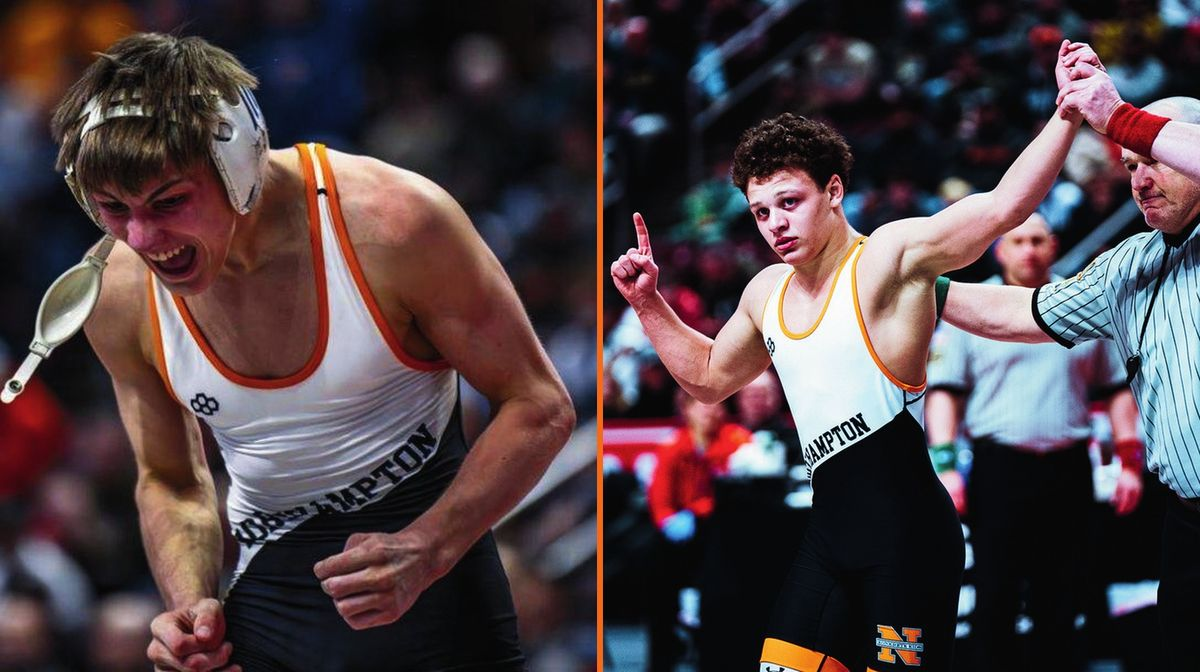
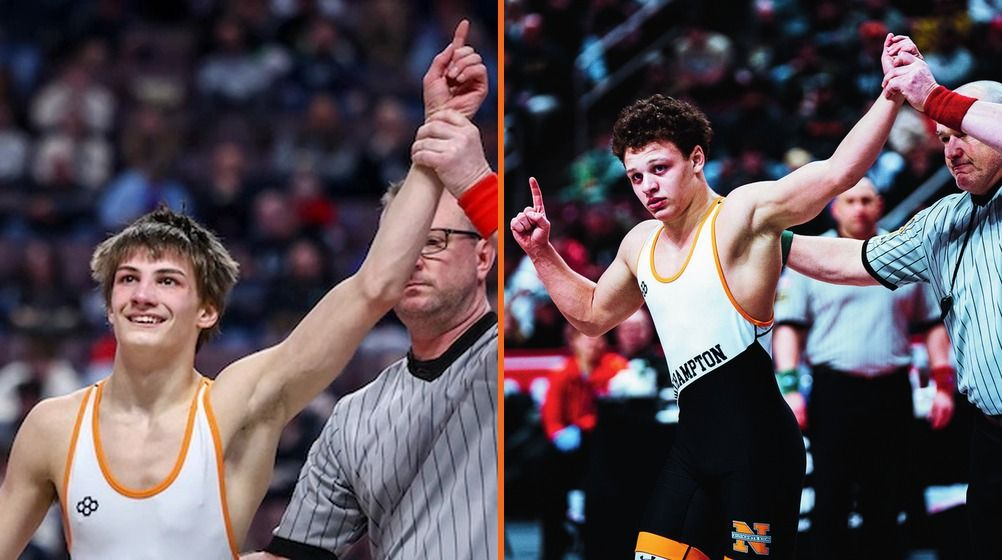
New Wenrich photo in the state-titles news image; embed Sean Finkbeiner's 1984 state final video
Claude-Session: https://claude.ai/code/session_011unT8m44MJviwZ1PMt1Tu4

diff --git a/news/index.html b/news/index.html
@@ -34,7 +34,7 @@
 
 <header class="page-head concrete"><div class="wrap"><h1>News</h1><p class="lede">The latest from the varsity, junior high, and youth programs.</p></div></header>
 <section class="band">
-  <div class="wrap"><h2 class="visually-hidden">All news</h2><div class="news-grid all"><article class="news-card"><a href="../news/new-website/"><picture><source type="image/webp" srcset="../assets/img/photos/hero-circle-640.webp 640w, ../assets/img/photos/hero-circle-1200.webp 1200w, ../assets/img/photos/hero-circle-1800.webp 1800w, ../assets/img/photos/hero-circle-2000.webp 2000w" sizes="(min-width: 900px) 33vw, 100vw"><img src="../assets/img/photos/hero-circle.jpg" width="1200" height="857" alt="Northampton wrestlers lie in a circle on the orange home mat with their fists together before a match" style="object-position:50% 100%" loading="lazy" decoding="async"></picture><div class="nc-body"><time datetime="2026-10-06">October 6, 2026</time><h3>Northampton Wrestling launches its new home online</h3><p>Results, rosters, the Hall of Champions, and every state champion since 1955, all in one place.</p></div></a></article><article class="news-card"><a href="../news/2026-banquet/"><picture><source type="image/webp" srcset="../assets/img/photos/senior-night-640.webp 640w, ../assets/img/photos/senior-night-1200.webp 1200w, ../assets/img/photos/senior-night-1800.webp 1800w" sizes="(min-width: 900px) 33vw, 100vw"><img src="../assets/img/photos/senior-night.jpg" width="1200" height="900" alt="Northampton seniors and their families on the orange mat for Senior Night" loading="lazy" decoding="async"></picture><div class="nc-body"><time datetime="2026-04-02">April 2, 2026</time><h3>Banquet honors the 2025–26 Konkrete Kids</h3><p>Wenrich and Ballard named Outstanding Wrestlers; five seniors receive Charlie Lerch Memorial Scholarships.</p></div></a></article><article class="news-card"><a href="../news/two-state-champions/"><picture><source type="image/webp" srcset="../assets/img/photos/two-champs-2026-480.webp 480w, ../assets/img/photos/two-champs-2026-900.webp 900w, ../assets/img/photos/two-champs-2026-1600.webp 1600w" sizes="(min-width: 900px) 33vw, 100vw"><img src="../assets/img/photos/two-champs-2026.jpg" width="1200" height="672" alt="2026 state champions side by side: Brayden Wenrich yells after a win, and Gabe Ballard points skyward as the referee raises his hand" loading="lazy" decoding="async"></picture><div class="nc-body"><time datetime="2026-03-07">March 7, 2026</time><h3>Wenrich and Ballard win state titles as Northampton finishes 3rd in the state</h3><p>Two PIAA champions in the same year for the first time since 2004.</p></div></a></article></div></div>
+  <div class="wrap"><h2 class="visually-hidden">All news</h2><div class="news-grid all"><article class="news-card"><a href="../news/new-website/"><picture><source type="image/webp" srcset="../assets/img/photos/hero-circle-640.webp 640w, ../assets/img/photos/hero-circle-1200.webp 1200w, ../assets/img/photos/hero-circle-1800.webp 1800w, ../assets/img/photos/hero-circle-2000.webp 2000w" sizes="(min-width: 900px) 33vw, 100vw"><img src="../assets/img/photos/hero-circle.jpg" width="1200" height="857" alt="Northampton wrestlers lie in a circle on the orange home mat with their fists together before a match" style="object-position:50% 100%" loading="lazy" decoding="async"></picture><div class="nc-body"><time datetime="2026-10-06">October 6, 2026</time><h3>Northampton Wrestling launches its new home online</h3><p>Results, rosters, the Hall of Champions, and every state champion since 1955, all in one place.</p></div></a></article><article class="news-card"><a href="../news/2026-banquet/"><picture><source type="image/webp" srcset="../assets/img/photos/senior-night-640.webp 640w, ../assets/img/photos/senior-night-1200.webp 1200w, ../assets/img/photos/senior-night-1800.webp 1800w" sizes="(min-width: 900px) 33vw, 100vw"><img src="../assets/img/photos/senior-night.jpg" width="1200" height="900" alt="Northampton seniors and their families on the orange mat for Senior Night" loading="lazy" decoding="async"></picture><div class="nc-body"><time datetime="2026-04-02">April 2, 2026</time><h3>Banquet honors the 2025–26 Konkrete Kids</h3><p>Wenrich and Ballard named Outstanding Wrestlers; five seniors receive Charlie Lerch Memorial Scholarships.</p></div></a></article><article class="news-card"><a href="../news/two-state-champions/"><picture><source type="image/webp" srcset="../assets/img/photos/two-champs-2026-480.webp 480w, ../assets/img/photos/two-champs-2026-1002.webp 1002w" sizes="(min-width: 900px) 33vw, 100vw"><img src="../assets/img/photos/two-champs-2026.jpg" width="1002" height="560" alt="2026 state champions side by side: Brayden Wenrich and Gabe Ballard each have a hand raised by the referee" loading="lazy" decoding="async"></picture><div class="nc-body"><time datetime="2026-03-07">March 7, 2026</time><h3>Wenrich and Ballard win state titles as Northampton finishes 3rd in the state</h3><p>Two PIAA champions in the same year for the first time since 2004.</p></div></a></article></div></div>
 </section>
 
 </main>

diff --git a/index.html b/index.html
@@ -53,7 +53,7 @@
 <section class="band" aria-labelledby="news-title">
   <div class="wrap">
     <div class="sec-row"><h2 id="news-title">Latest from Northampton</h2><a class="text-link" href="news/">All news</a></div>
-    <div class="news-grid"><article class="news-card big"><a href="news/new-website/"><picture><source type="image/webp" srcset="assets/img/photos/hero-circle-640.webp 640w, assets/img/photos/hero-circle-1200.webp 1200w, assets/img/photos/hero-circle-1800.webp 1800w, assets/img/photos/hero-circle-2000.webp 2000w" sizes="(min-width: 900px) 33vw, 100vw"><img src="assets/img/photos/hero-circle.jpg" width="1200" height="857" alt="Northampton wrestlers lie in a circle on the orange home mat with their fists together before a match" style="object-position:50% 100%" loading="lazy" decoding="async"></picture><div class="nc-body"><time datetime="2026-10-06">October 6, 2026</time><h3>Northampton Wrestling launches its new home online</h3><p>Results, rosters, the Hall of Champions, and every state champion since 1955, all in one place.</p></div></a></article><article class="news-card"><a href="news/2026-banquet/"><picture><source type="image/webp" srcset="assets/img/photos/senior-night-640.webp 640w, assets/img/photos/senior-night-1200.webp 1200w, assets/img/photos/senior-night-1800.webp 1800w" sizes="(min-width: 900px) 33vw, 100vw"><img src="assets/img/photos/senior-night.jpg" width="1200" height="900" alt="Northampton seniors and their families on the orange mat for Senior Night" loading="lazy" decoding="async"></picture><div class="nc-body"><time datetime="2026-04-02">April 2, 2026</time><h3>Banquet honors the 2025–26 Konkrete Kids</h3><p>Wenrich and Ballard named Outstanding Wrestlers; five seniors receive Charlie Lerch Memorial Scholarships.</p></div></a></article><article class="news-card"><a href="news/two-state-champions/"><picture><source type="image/webp" srcset="assets/img/photos/two-champs-2026-480.webp 480w, assets/img/photos/two-champs-2026-900.webp 900w, assets/img/photos/two-champs-2026-1600.webp 1600w" sizes="(min-width: 900px) 33vw, 100vw"><img src="assets/img/photos/two-champs-2026.jpg" width="1200" height="672" alt="2026 state champions side by side: Brayden Wenrich yells after a win, and Gabe Ballard points skyward as the referee raises his hand" loading="lazy" decoding="async"></picture><div class="nc-body"><time datetime="2026-03-07">March 7, 2026</time><h3>Wenrich and Ballard win state titles as Northampton finishes 3rd in the state</h3><p>Two PIAA champions in the same year for the first time since 2004.</p></div></a></article></div>
+    <div class="news-grid"><article class="news-card big"><a href="news/new-website/"><picture><source type="image/webp" srcset="assets/img/photos/hero-circle-640.webp 640w, assets/img/photos/hero-circle-1200.webp 1200w, assets/img/photos/hero-circle-1800.webp 1800w, assets/img/photos/hero-circle-2000.webp 2000w" sizes="(min-width: 900px) 33vw, 100vw"><img src="assets/img/photos/hero-circle.jpg" width="1200" height="857" alt="Northampton wrestlers lie in a circle on the orange home mat with their fists together before a match" style="object-position:50% 100%" loading="lazy" decoding="async"></picture><div class="nc-body"><time datetime="2026-10-06">October 6, 2026</time><h3>Northampton Wrestling launches its new home online</h3><p>Results, rosters, the Hall of Champions, and every state champion since 1955, all in one place.</p></div></a></article><article class="news-card"><a href="news/2026-banquet/"><picture><source type="image/webp" srcset="assets/img/photos/senior-night-640.webp 640w, assets/img/photos/senior-night-1200.webp 1200w, assets/img/photos/senior-night-1800.webp 1800w" sizes="(min-width: 900px) 33vw, 100vw"><img src="assets/img/photos/senior-night.jpg" width="1200" height="900" alt="Northampton seniors and their families on the orange mat for Senior Night" loading="lazy" decoding="async"></picture><div class="nc-body"><time datetime="2026-04-02">April 2, 2026</time><h3>Banquet honors the 2025–26 Konkrete Kids</h3><p>Wenrich and Ballard named Outstanding Wrestlers; five seniors receive Charlie Lerch Memorial Scholarships.</p></div></a></article><article class="news-card"><a href="news/two-state-champions/"><picture><source type="image/webp" srcset="assets/img/photos/two-champs-2026-480.webp 480w, assets/img/photos/two-champs-2026-1002.webp 1002w" sizes="(min-width: 900px) 33vw, 100vw"><img src="assets/img/photos/two-champs-2026.jpg" width="1002" height="560" alt="2026 state champions side by side: Brayden Wenrich and Gabe Ballard each have a hand raised by the referee" loading="lazy" decoding="async"></picture><div class="nc-body"><time datetime="2026-03-07">March 7, 2026</time><h3>Wenrich and Ballard win state titles as Northampton finishes 3rd in the state</h3><p>Two PIAA champions in the same year for the first time since 2004.</p></div></a></article></div>
   </div>
 </section>
 

diff --git a/news/2026-banquet/index.html b/news/2026-banquet/index.html
@@ -37,7 +37,7 @@
     <div class="wrap"><p class="kicker"><a href="../../news/">News</a> · <time datetime="2026-04-02">April 2, 2026</time></p><h1 class="article-title">Banquet honors the 2025–26 Konkrete Kids</h1></div></header>
   <div class="band"><div class="wrap prose article-body"><p>The Northampton Area Wrestling Club honored the 2025–26 team at its annual awards banquet on April 2, 2026.</p><p>State champions Brayden Wenrich and Gabe Ballard shared the Outstanding Wrestler award. Ben Schoeneberger was named Rookie of the Year, Zach Hartzell received the Future Star award, and Carter Chlebove was named Most Improved and Most Courageous.</p><p>Chase Grabfelder, Daniel Herritt, Brandon McEntire, Matthew Sommer, and Trey Wagner received Charlie Lerch Memorial Scholarships. Wagner, who finished his career with 140 wins, earned the 40 Point Club&#x27;s fourth-year scholarship.</p></div></div>
 </article>
-<section class="band concrete"><div class="wrap"><h2>More news</h2><div class="news-grid two"><article class="news-card"><a href="../../news/new-website/"><picture><source type="image/webp" srcset="../../assets/img/photos/hero-circle-640.webp 640w, ../../assets/img/photos/hero-circle-1200.webp 1200w, ../../assets/img/photos/hero-circle-1800.webp 1800w, ../../assets/img/photos/hero-circle-2000.webp 2000w" sizes="(min-width: 900px) 33vw, 100vw"><img src="../../assets/img/photos/hero-circle.jpg" width="1200" height="857" alt="Northampton wrestlers lie in a circle on the orange home mat with their fists together before a match" style="object-position:50% 100%" loading="lazy" decoding="async"></picture><div class="nc-body"><time datetime="2026-10-06">October 6, 2026</time><h3>Northampton Wrestling launches its new home online</h3><p>Results, rosters, the Hall of Champions, and every state champion since 1955, all in one place.</p></div></a></article><article class="news-card"><a href="../../news/two-state-champions/"><picture><source type="image/webp" srcset="../../assets/img/photos/two-champs-2026-480.webp 480w, ../../assets/img/photos/two-champs-2026-900.webp 900w, ../../assets/img/photos/two-champs-2026-1600.webp 1600w" sizes="(min-width: 900px) 33vw, 100vw"><img src="../../assets/img/photos/two-champs-2026.jpg" width="1200" height="672" alt="2026 state champions side by side: Brayden Wenrich yells after a win, and Gabe Ballard points skyward as the referee raises his hand" loading="lazy" decoding="async"></picture><div class="nc-body"><time datetime="2026-03-07">March 7, 2026</time><h3>Wenrich and Ballard win state titles as Northampton finishes 3rd in the state</h3><p>Two PIAA champions in the same year for the first time since 2004.</p></div></a></article></div></div></section>
+<section class="band concrete"><div class="wrap"><h2>More news</h2><div class="news-grid two"><article class="news-card"><a href="../../news/new-website/"><picture><source type="image/webp" srcset="../../assets/img/photos/hero-circle-640.webp 640w, ../../assets/img/photos/hero-circle-1200.webp 1200w, ../../assets/img/photos/hero-circle-1800.webp 1800w, ../../assets/img/photos/hero-circle-2000.webp 2000w" sizes="(min-width: 900px) 33vw, 100vw"><img src="../../assets/img/photos/hero-circle.jpg" width="1200" height="857" alt="Northampton wrestlers lie in a circle on the orange home mat with their fists together before a match" style="object-position:50% 100%" loading="lazy" decoding="async"></picture><div class="nc-body"><time datetime="2026-10-06">October 6, 2026</time><h3>Northampton Wrestling launches its new home online</h3><p>Results, rosters, the Hall of Champions, and every state champion since 1955, all in one place.</p></div></a></article><article class="news-card"><a href="../../news/two-state-champions/"><picture><source type="image/webp" srcset="../../assets/img/photos/two-champs-2026-480.webp 480w, ../../assets/img/photos/two-champs-2026-1002.webp 1002w" sizes="(min-width: 900px) 33vw, 100vw"><img src="../../assets/img/photos/two-champs-2026.jpg" width="1002" height="560" alt="2026 state champions side by side: Brayden Wenrich and Gabe Ballard each have a hand raised by the referee" loading="lazy" decoding="async"></picture><div class="nc-body"><time datetime="2026-03-07">March 7, 2026</time><h3>Wenrich and Ballard win state titles as Northampton finishes 3rd in the state</h3><p>Two PIAA champions in the same year for the first time since 2004.</p></div></a></article></div></div></section>
 
 </main>
 <footer class="site-foot">

diff --git a/news/new-website/index.html b/news/new-website/index.html
@@ -37,7 +37,7 @@
     <div class="wrap"><p class="kicker"><a href="../../news/">News</a> · <time datetime="2026-10-06">October 6, 2026</time></p><h1 class="article-title">Northampton Wrestling launches its new home online</h1></div></header>
   <div class="band"><div class="wrap prose article-body"><p>Northampton Wrestling has a new website. It brings the whole program, from the youth room to the varsity lineup, into one place.</p><p>The Hall of Champions lists every District XI champion since 1948, every Northeast Regional champion, all 27 PIAA state champions, and every state medalist, along with the program&#x27;s seven PIAA team titles and the 100-Win Club. Search any name to see that wrestler&#x27;s titles, medals, and records.</p><p>During the season, the site will carry the schedule, results after every match, and news from the varsity, junior high, and youth programs.</p></div></div>
 </article>
-<section class="band concrete"><div class="wrap"><h2>More news</h2><div class="news-grid two"><article class="news-card"><a href="../../news/2026-banquet/"><picture><source type="image/webp" srcset="../../assets/img/photos/senior-night-640.webp 640w, ../../assets/img/photos/senior-night-1200.webp 1200w, ../../assets/img/photos/senior-night-1800.webp 1800w" sizes="(min-width: 900px) 33vw, 100vw"><img src="../../assets/img/photos/senior-night.jpg" width="1200" height="900" alt="Northampton seniors and their families on the orange mat for Senior Night" loading="lazy" decoding="async"></picture><div class="nc-body"><time datetime="2026-04-02">April 2, 2026</time><h3>Banquet honors the 2025–26 Konkrete Kids</h3><p>Wenrich and Ballard named Outstanding Wrestlers; five seniors receive Charlie Lerch Memorial Scholarships.</p></div></a></article><article class="news-card"><a href="../../news/two-state-champions/"><picture><source type="image/webp" srcset="../../assets/img/photos/two-champs-2026-480.webp 480w, ../../assets/img/photos/two-champs-2026-900.webp 900w, ../../assets/img/photos/two-champs-2026-1600.webp 1600w" sizes="(min-width: 900px) 33vw, 100vw"><img src="../../assets/img/photos/two-champs-2026.jpg" width="1200" height="672" alt="2026 state champions side by side: Brayden Wenrich yells after a win, and Gabe Ballard points skyward as the referee raises his hand" loading="lazy" decoding="async"></picture><div class="nc-body"><time datetime="2026-03-07">March 7, 2026</time><h3>Wenrich and Ballard win state titles as Northampton finishes 3rd in the state</h3><p>Two PIAA champions in the same year for the first time since 2004.</p></div></a></article></div></div></section>
+<section class="band concrete"><div class="wrap"><h2>More news</h2><div class="news-grid two"><article class="news-card"><a href="../../news/2026-banquet/"><picture><source type="image/webp" srcset="../../assets/img/photos/senior-night-640.webp 640w, ../../assets/img/photos/senior-night-1200.webp 1200w, ../../assets/img/photos/senior-night-1800.webp 1800w" sizes="(min-width: 900px) 33vw, 100vw"><img src="../../assets/img/photos/senior-night.jpg" width="1200" height="900" alt="Northampton seniors and their families on the orange mat for Senior Night" loading="lazy" decoding="async"></picture><div class="nc-body"><time datetime="2026-04-02">April 2, 2026</time><h3>Banquet honors the 2025–26 Konkrete Kids</h3><p>Wenrich and Ballard named Outstanding Wrestlers; five seniors receive Charlie Lerch Memorial Scholarships.</p></div></a></article><article class="news-card"><a href="../../news/two-state-champions/"><picture><source type="image/webp" srcset="../../assets/img/photos/two-champs-2026-480.webp 480w, ../../assets/img/photos/two-champs-2026-1002.webp 1002w" sizes="(min-width: 900px) 33vw, 100vw"><img src="../../assets/img/photos/two-champs-2026.jpg" width="1002" height="560" alt="2026 state champions side by side: Brayden Wenrich and Gabe Ballard each have a hand raised by the referee" loading="lazy" decoding="async"></picture><div class="nc-body"><time datetime="2026-03-07">March 7, 2026</time><h3>Wenrich and Ballard win state titles as Northampton finishes 3rd in the state</h3><p>Two PIAA champions in the same year for the first time since 2004.</p></div></a></article></div></div></section>
 
 </main>
 <footer class="site-foot">

diff --git a/champions/sean-finkbeiner/index.html b/champions/sean-finkbeiner/index.html
@@ -39,7 +39,7 @@
     <div class="prose cp-story"><h2>The story</h2><p>Sean Finkbeiner ended a 29-year wait in 1984, becoming Northampton&#x27;s first state champion since 1955. He won the PIAA title at 145 pounds and finished his senior season a perfect <span class="nw">35–0</span>. He had come to Northampton that year after two state runner-up finishes for Saucon Valley.</p><p>He set the tone early, pinning Northern Lehigh&#x27;s Greg Parsons at 155 to win the Christmas City Tournament and its Outstanding Wrestler award. In the postseason he edged Allen&#x27;s Scott Schleicher <span class="nw">3–2</span> for the District XI title, won the Northeast Regional at Bloomsburg, and then went <span class="nw">4–0</span> at states: major decisions over Mark Nichols of Canon-McMillan (<span class="nw">15–3</span>) and Mario Harpel of Neshaminy (<span class="nw">16–3</span>), a <span class="nw">3–2</span> semifinal over Brad Lloyd of Red Lion, and a <span class="nw">7–2</span> win over Kurt Bowman of Waynesboro in the final.</p><p>He kept winning after the season. At the Easton Lions Classic he beat New Jersey state champion Mike Barna <span class="nw">9–3</span>, he won at the AAA-AA Challenge of Champions, and he was named Outstanding Wrestler at the Pittsburgh Press Classic after a <span class="nw">14–5</span> win over future Iowa State star Tim Krieger. It was Don Rohn&#x27;s second season as head coach. Rohn went on to win five PIAA team titles.</p><p class="cp-source">Sources: <a href="https://lehighvalleywrestlinghistory.com/1980s-beyond/1983-84-canary-resurgence-matty-catty/" rel="noopener">Lehigh Valley Wrestling History, “1983-84: Canary Resurgence, Matty Catty”</a>; <a href="https://brackets.pa-wrestling.com/piaa-class-aaa/history_participating_wrestlers.htm?id=189" rel="noopener">PA-Wrestling, Northampton state tournament history</a></p></div>
   </div>
 </section>
-<section class="band dark"><div class="wrap"><h2>The state final</h2><div class="empty-state small"><h3>State final video</h3><p>Have video of this final? Send a YouTube link to <a href="mailto:northamptonareawrestlingclub@gmail.com">northamptonareawrestlingclub@gmail.com</a>.</p></div></div></section>
+<section class="band dark"><div class="wrap"><h2>The state final</h2><div class="video-facade single" data-ytv="FLdZqqqxgts"><img class="vf-img" src="https://i.ytimg.com/vi/FLdZqqqxgts/hqdefault.jpg" alt="" loading="lazy"><button type="button" class="vf-play"><span aria-hidden="true">▶</span> Watch the state final</button></div></div></section>
 
 <section class="band concrete">
   <div class="wrap">

diff --git a/news/two-state-champions/index.html b/news/two-state-champions/index.html
@@ -11,7 +11,7 @@
 <meta property="og:title" content="Wenrich and Ballard win state titles as Northampton finishes 3rd in the state | Northampton Wrestling">
 <meta property="og:description" content="Two PIAA champions in the same year for the first time since 2004.">
 <meta property="og:url" content="https://www.northamptonwrestling.org/news/two-state-champions/">
-<meta property="og:image" content="https://www.northamptonwrestling.org/assets/img/photos/two-champs-2026-1600.webp">
+<meta property="og:image" content="https://www.northamptonwrestling.org/assets/img/photos/two-champs-2026-1002.webp">
 <meta name="twitter:card" content="summary_large_image">
 <meta name="theme-color" content="#141414">
 <link rel="icon" href="../../assets/img/icon-32.png" sizes="32x32" type="image/png">
@@ -33,7 +33,7 @@
 <main id="main">
 
 <article>
-  <header class="page-head has-photo"><picture><source type="image/webp" srcset="../../assets/img/photos/two-champs-2026-480.webp 480w, ../../assets/img/photos/two-champs-2026-900.webp 900w, ../../assets/img/photos/two-champs-2026-1600.webp 1600w" sizes="100vw"><img src="../../assets/img/photos/two-champs-2026.jpg" width="1200" height="672" alt="" class="bg" fetchpriority="high"></picture>
+  <header class="page-head has-photo"><picture><source type="image/webp" srcset="../../assets/img/photos/two-champs-2026-480.webp 480w, ../../assets/img/photos/two-champs-2026-1002.webp 1002w" sizes="100vw"><img src="../../assets/img/photos/two-champs-2026.jpg" width="1002" height="560" alt="" class="bg" fetchpriority="high"></picture>
     <div class="wrap"><p class="kicker"><a href="../../news/">News</a> · <time datetime="2026-03-07">March 7, 2026</time></p><h1 class="article-title">Wenrich and Ballard win state titles as Northampton finishes 3rd in the state</h1></div></header>
   <div class="band"><div class="wrap prose article-body"><p>Brayden Wenrich won the PIAA Class AAA title at 114 pounds and Gabe Ballard won at 152 at the Giant Center in Hershey, the first time since 2004 that Northampton crowned two state champions in the same year.</p><p>Wenrich finished the season 36–1 as a sophomore. Ballard went 41–5 as a junior, with 114 takedowns and 238 team points. Senior Trey Wagner placed 7th at 139 for his third state medal, and Matthew Sommer (133) and Carter Chlebove (160) also qualified for states.</p><p>Northampton finished 3rd in the team standings, after 3rd-place finishes at the District XI and Northeast Regional tournaments.</p></div></div>
 </article>
